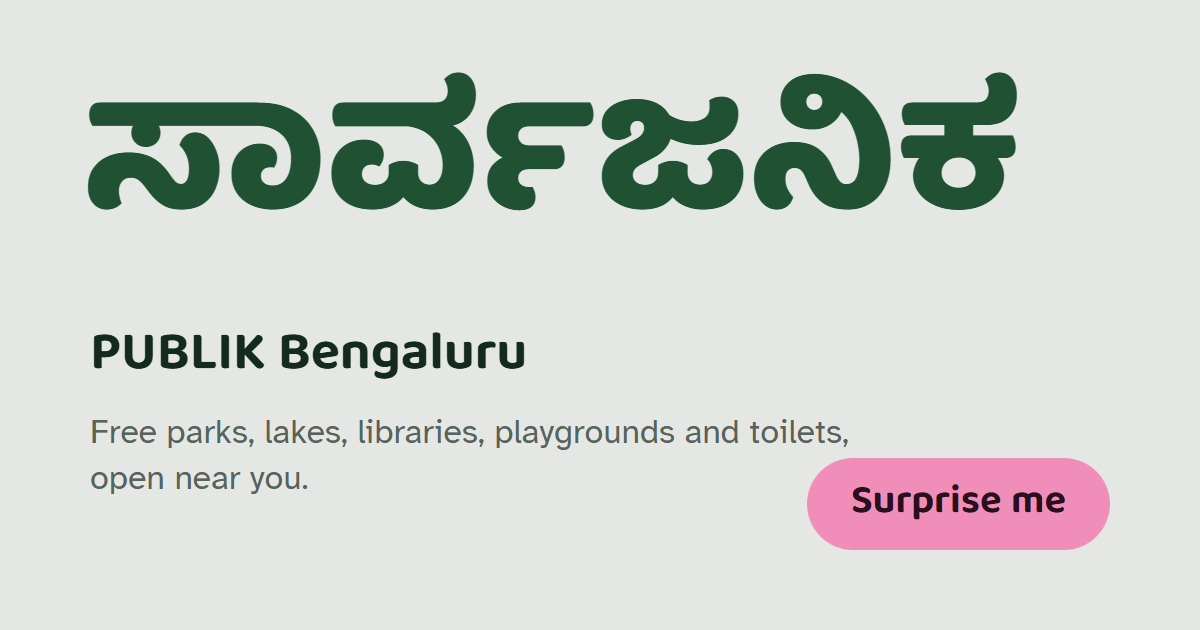
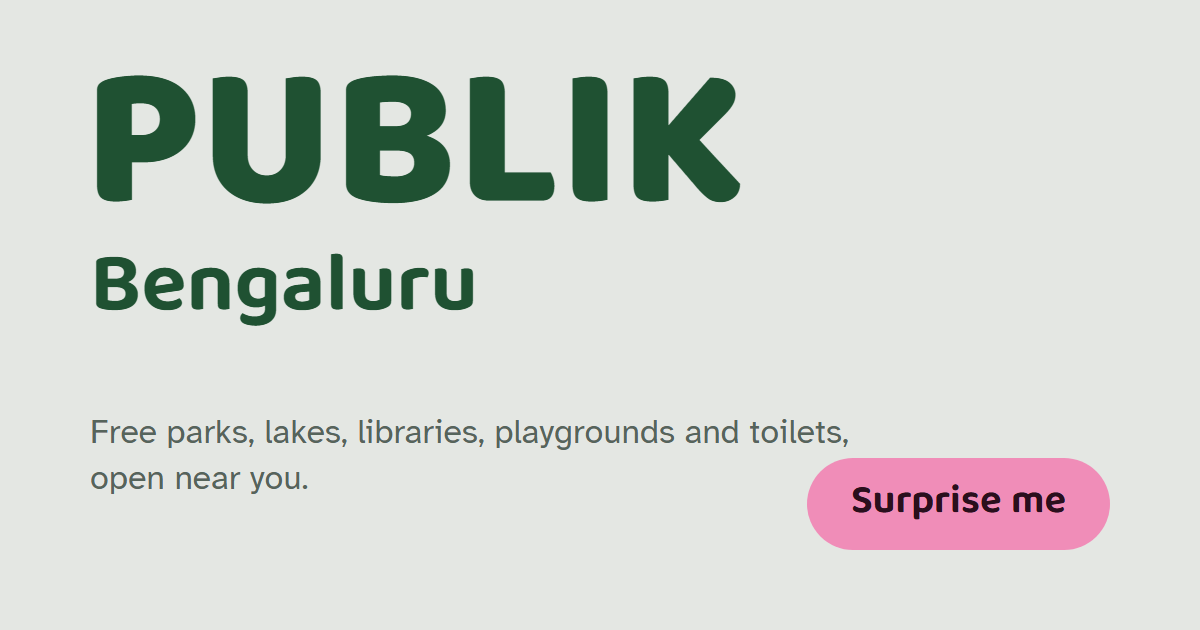
Lead with PUBLIK Bengaluru; show all categories and filters on phones
The English name is the headline and the Kannada word moves to a small line
with its meaning, since many people in the city do not read Kannada. On
phones the category and filter buttons wrap onto two lines instead of
running off the edge. The share image matches.

Changed region(s): [[0.0617, 0.1206, 0.8633, 0.3317], [0.0617, 0.3921, 0.4625, 0.6032]]

diff --git a/docs/style.css b/docs/style.css
@@ -59,19 +59,12 @@ a { color: var(--canopy); text-underline-offset: 3px; }
 :focus-visible { outline: 3px solid var(--focus); outline-offset: 2px; }
 button { font: inherit; }
 
-/* Hero: the Kannada word is the one loud thing on the page. */
+/* Hero */
 .hero { padding: 28px 16px 8px; }
 .brand { max-width: 720px; margin: 0 auto; }
 .wordmark { margin: 0; display: flex; flex-direction: column; }
-.wordmark [lang="kn"] {
-  font-size: clamp(3.4rem, 17vw, 6.5rem); font-weight: 800; line-height: .95;
-  color: var(--canopy); letter-spacing: -.01em;
-  margin-left: -.04em;
-}
-.wordmark b {
-  font-family: var(--display); font-weight: 700; font-size: 1.15rem; line-height: 1.2;
-  margin-top: 6px; color: var(--ink);
-}
+
+
 .brand p { margin: 10px 0 0; color: var(--muted); max-width: 38ch; font-size: 1rem; }
 .hero-act { display: flex; align-items: center; gap: 12px; flex-wrap: wrap; margin-top: 18px; }
 .hint { color: var(--muted); font-size: .88rem; }
@@ -278,3 +271,27 @@ footer p { margin: 0 0 6px; }
   .chip .ic { width: 28px; height: 28px; }
 }
 .filterbar #count { margin: 8px 2px 0; }
+
+/* Wordmark: PUBLIK Bengaluru leads; the Kannada word sits under it. */
+.wordmark b {
+  font-size: clamp(3.6rem, 20vw, 6.5rem); font-weight: 800; line-height: .9;
+  color: var(--canopy); letter-spacing: -.015em; margin: 0 0 0 -.03em;
+}
+.wordmark .city {
+  font-family: var(--display); font-size: clamp(1.7rem, 9vw, 2.8rem); font-weight: 700; line-height: 1;
+  color: var(--canopy); margin-top: 2px;
+}
+.wordmark .kn-tag { font-size: 1rem; font-weight: 600; line-height: 1.3; color: var(--muted); margin-top: 10px; letter-spacing: 0; }
+
+/* On phones, show every category and filter: wrap instead of scrolling sideways. */
+@media (max-width: 560px) {
+  .chips, .filters {
+    flex-wrap: wrap; overflow: visible; padding-right: 0;
+    -webkit-mask-image: none; mask-image: none;
+  }
+  .chips { gap: 6px; padding: 10px 0 8px; }
+  .chip { min-height: 36px; padding: 3px 12px 3px 4px; gap: 6px; font-size: .92rem; }
+  .chip .ic { width: 26px; height: 26px; }
+  .chip [lang="kn"] { display: none; }
+  .filters { gap: 6px; }
+}

diff --git a/docs/index.html b/docs/index.html
@@ -23,12 +23,12 @@
 <link rel="preconnect" href="https://fonts.gstatic.com" crossorigin>
 <link href="https://fonts.googleapis.com/css2?family=Atkinson+Hyperlegible:ital,wght@0,400;0,700;1,400&family=Baloo+Tamma+2:wght@500;600;700;800&display=swap" rel="stylesheet">
 <link rel="icon" href="favicon.svg" type="image/svg+xml">
-<link rel="stylesheet" href="style.css?v=3">
+<link rel="stylesheet" href="style.css?v=4">
 </head>
 <body>
 <div class="hero">
   <div class="brand">
-    <h1 class="wordmark"><span lang="kn">ಸಾರ್ವಜನಿಕ</span><b>PUBLIK Bengaluru</b></h1>
+    <h1 class="wordmark"><b>PUBLIK</b><span class="city">Bengaluru</span><span lang="kn" class="kn-tag">ಸಾರ್ವಜನಿಕ, public spaces for everyone</span></h1>
     <p>Free parks, lakes, libraries, playgrounds and toilets across the city, with timings and what visitors saw today.</p>
     <div class="hero-act">
       <button id="surprise" class="btn surprise" type="button">Surprise me</button>
@@ -100,6 +100,6 @@
   <p>Data: BBMP via <a href="https://data.opencity.in/dataset/bbmp-parks" target="_blank" rel="noopener">OpenCity</a>, &copy; <a href="https://www.openstreetmap.org/copyright" target="_blank" rel="noopener">OpenStreetMap contributors</a>. <span id="built"></span></p>
   <p>PUBLIK is an independent project. It is not linked to BBMP, BMRCL or Google.</p>
 </footer>
-<script src="app.js?v=3"></script>
+<script src="app.js?v=4"></script>
 </body>
 </html>
